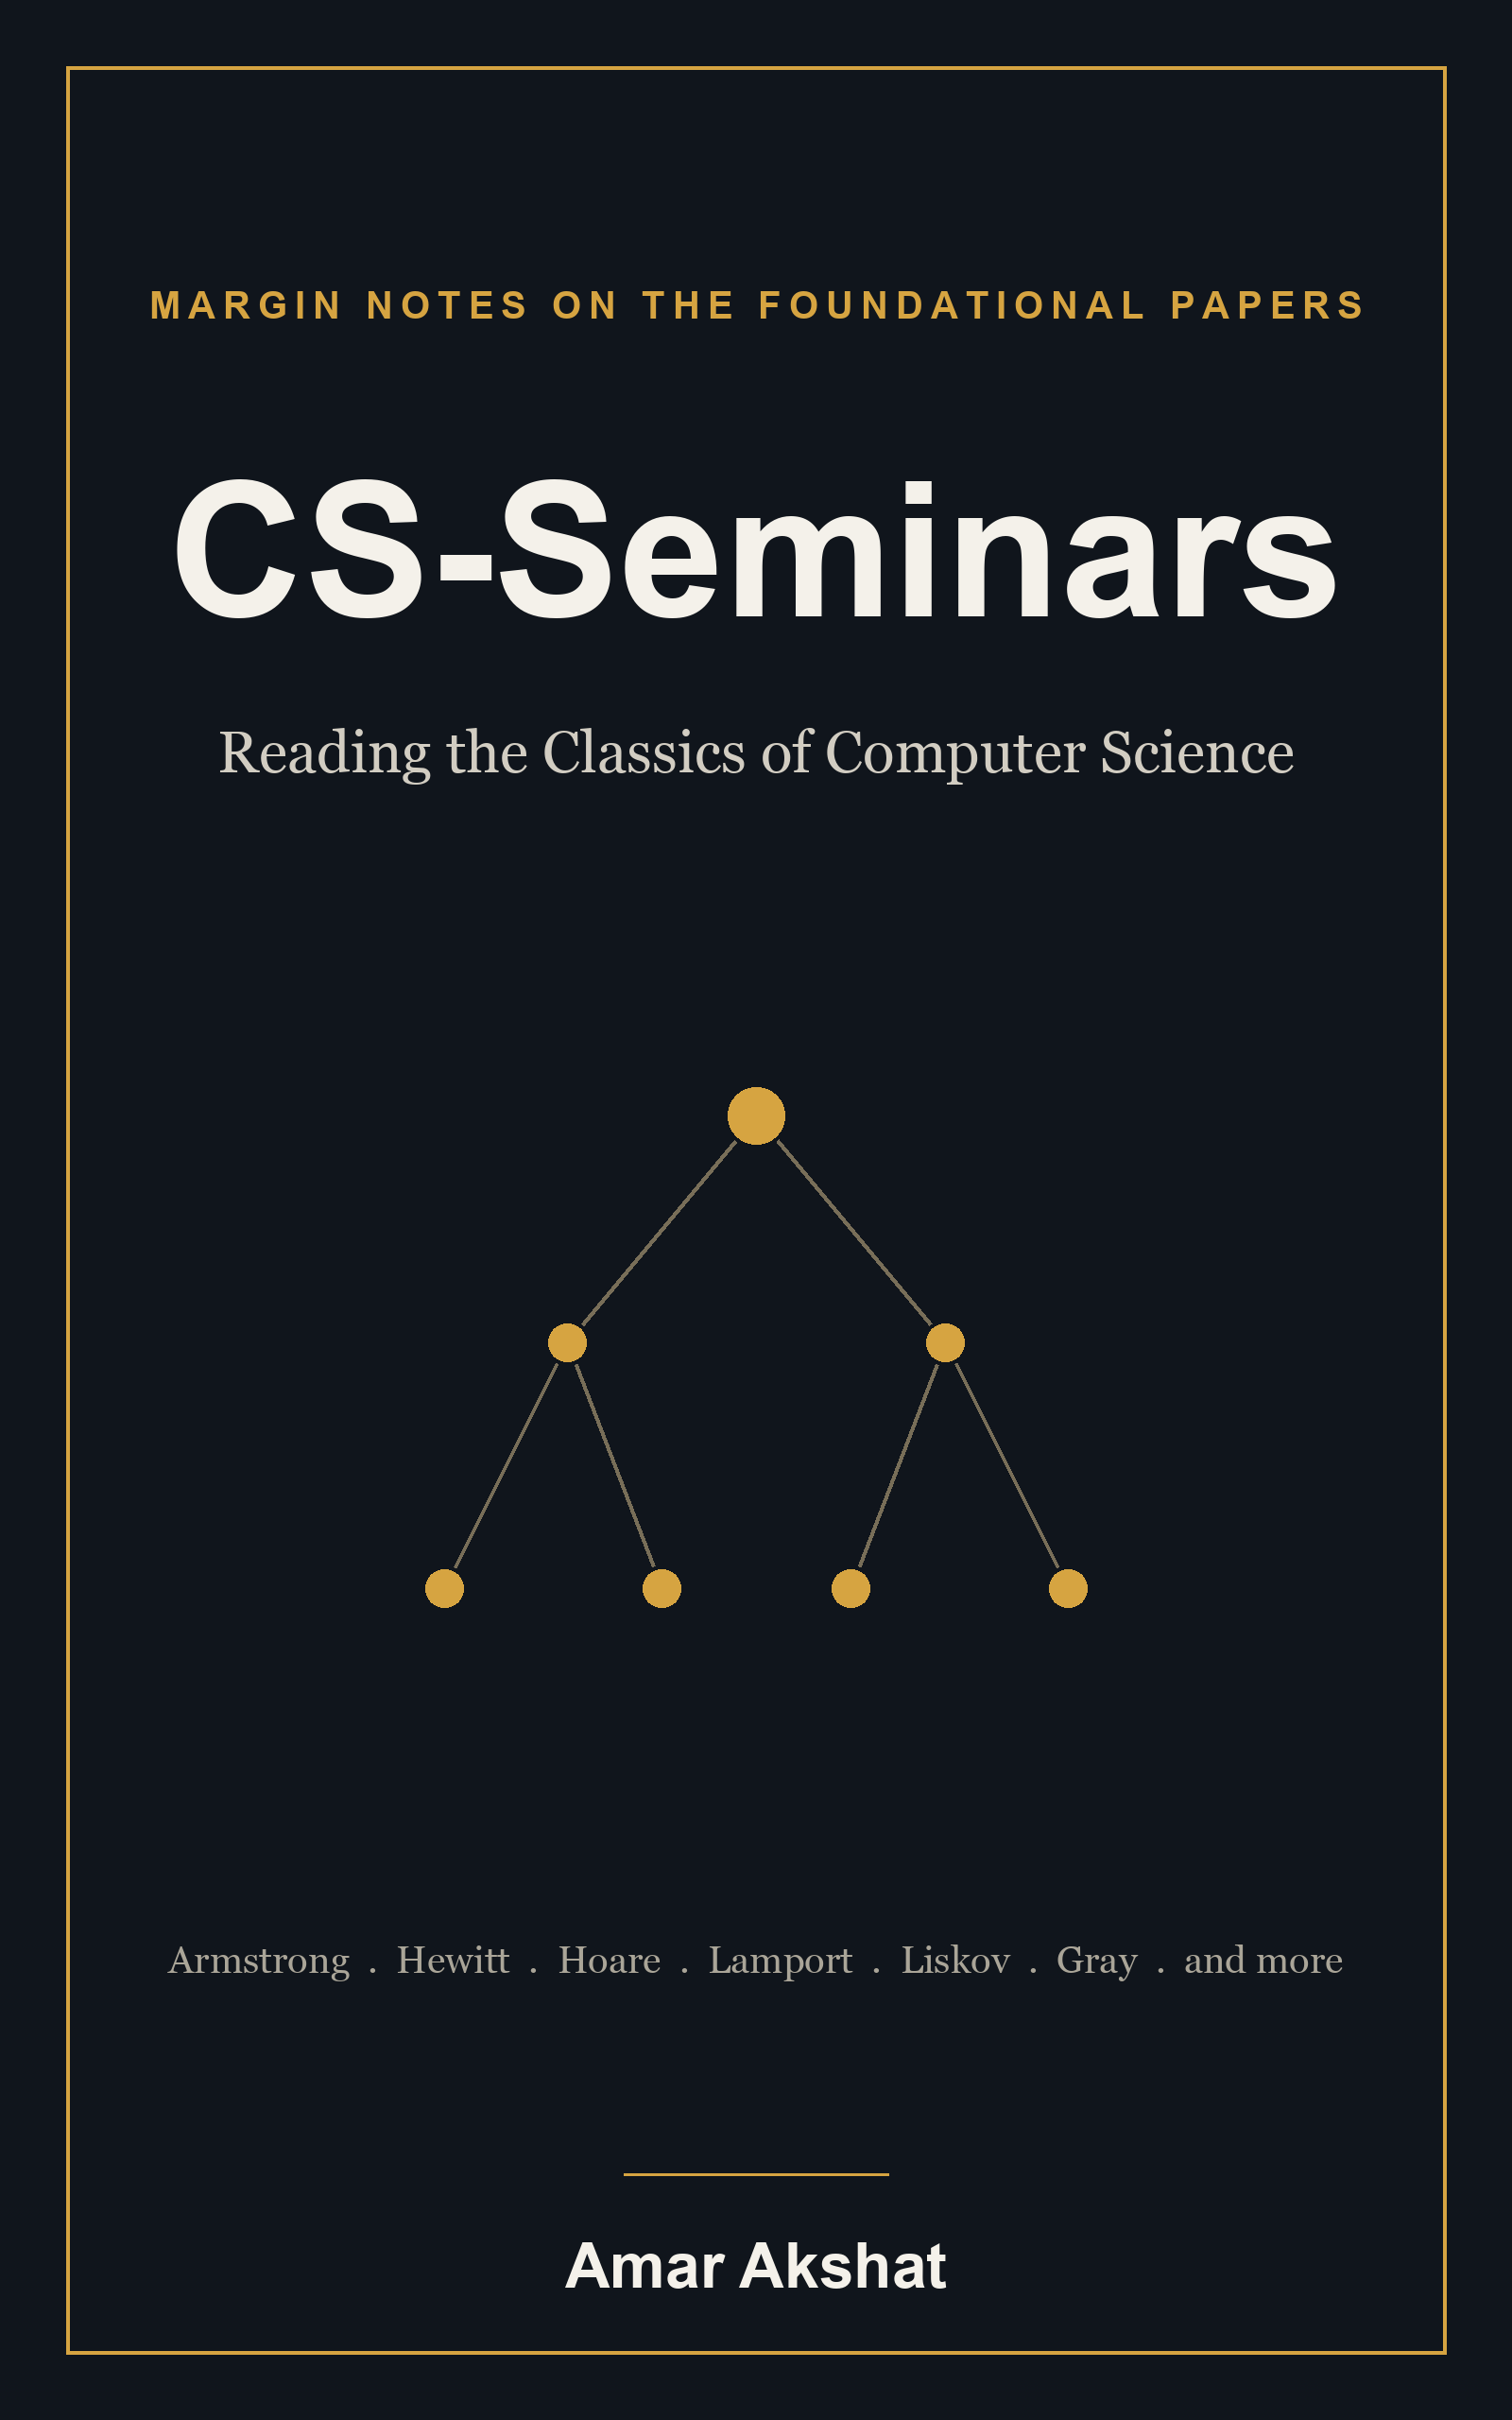
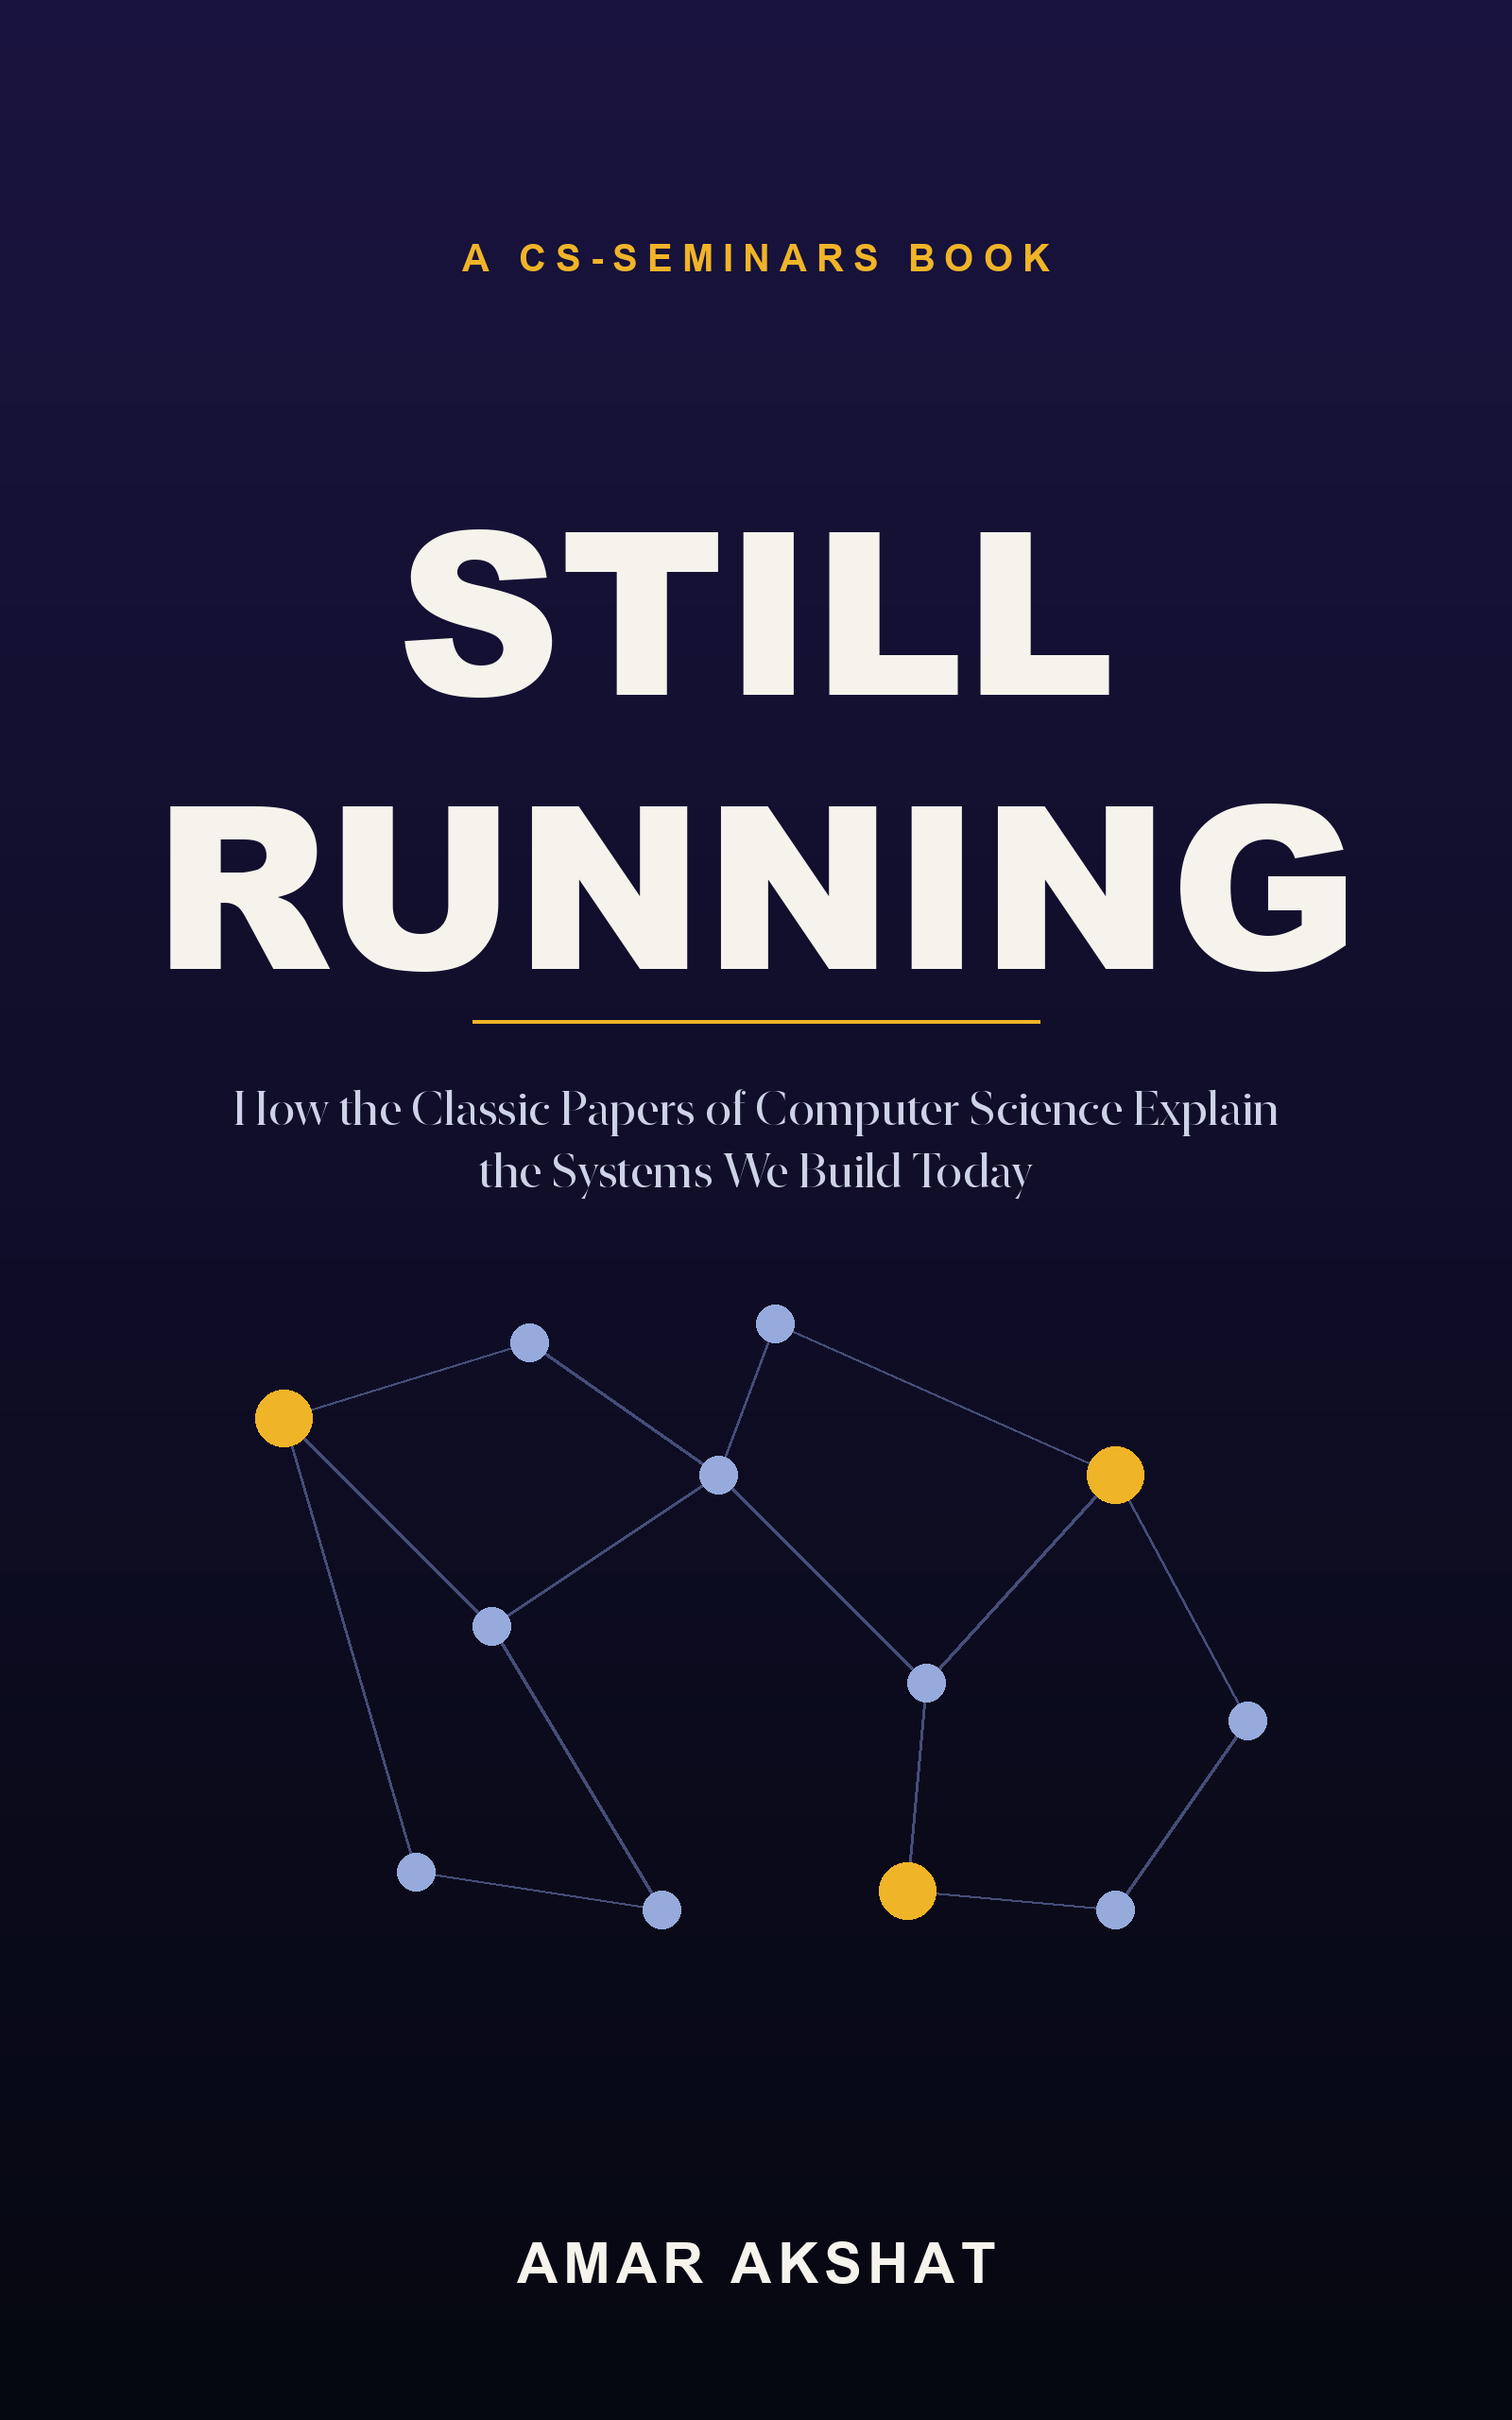
Title the book Still Running (CS-Seminars stays the project/series)
- Book title: Still Running, subtitle 'How the Classic Papers of Computer Science
  Explain the Systems We Build Today'. Updated ebook metadata, web site config,
  copyright page, and the root landing.
- New cover (Still Running over a constellation of connected ideas).
- CS-Seminars remains the repo/series/brand ('A CS-Seminars book').
EPUB still validates clean; site redeploys on push.

diff --git a/book/make_cover.py b/book/make_cover.py
@@ -1,97 +1,105 @@
 #!/usr/bin/env python3
 """Generate the Kindle cover (book/cover.png) with Pillow.
 
-KDP wants a portrait cover around 1600x2560. This draws a clean typographic
-cover: title, subtitle, a small supervision-tree motif, and the author. Edit the
-constants below to taste, then run:  python3 book/make_cover.py
+KDP wants a portrait cover around 1600x2560. This draws a bold typographic cover:
+the title "Still Running" over a small constellation of connected ideas (the
+book's through-line), with the subtitle and author. Edit the constants and run:
+python3 book/make_cover.py
 """
 import os
 
 from PIL import Image, ImageDraw, ImageFont
 
 W, H = 1600, 2560
-INK = (16, 21, 28)
-PAPER = (244, 241, 234)
-GOLD = (214, 164, 65)
-DIM = (120, 110, 88)
+OUT = os.path.join(os.path.dirname(os.path.abspath(__file__)), "cover.png")
 
-TITLE = "CS-Seminars"
-SUBTITLE = "Reading the Classics of Computer Science"
-KICKER = "MARGIN NOTES ON THE FOUNDATIONAL PAPERS"
-AUTHOR = "Amar Akshat"
+TITLE = ("STILL", "RUNNING")
+SUB = "How the Classic Papers of Computer Science Explain the Systems We Build Today"
+KICKER = "A CS-SEMINARS BOOK"
+AUTHOR = "AMAR AKSHAT"
 
-HERE = os.path.dirname(os.path.abspath(__file__))
-OUT = os.path.join(HERE, "cover.png")
+BLACK = "/System/Library/Fonts/Supplemental/Arial Black.ttf"
+BOLD = "/System/Library/Fonts/Supplemental/Arial Bold.ttf"
+SERIF = "/System/Library/Fonts/NewYork.ttf"
+REG = "/System/Library/Fonts/Supplemental/Arial.ttf"
 
-SANS = [
-    "/System/Library/Fonts/Supplemental/Arial Bold.ttf",
-    "/System/Library/Fonts/Helvetica.ttc",
-    "/Library/Fonts/Arial Bold.ttf",
-    "/System/Library/Fonts/SFNSDisplay.ttf",
-]
-SERIF = [
-    "/System/Library/Fonts/Supplemental/Georgia.ttf",
-    "/System/Library/Fonts/Supplemental/Times New Roman.ttf",
-    "/System/Library/Fonts/Supplemental/Palatino.ttc",
-]
+GOLD = (240, 180, 40)
+PAPER = (245, 243, 236)
 
 
-def font(paths, size):
-    for p in paths:
+def font(path, size):
+    for p in (path, BOLD, REG):
         if os.path.exists(p):
             try:
                 return ImageFont.truetype(p, size)
             except Exception:
-                continue
+                pass
     return ImageFont.load_default()
 
 
-def center(draw, y, text, fnt, fill, spacing=0):
-    if spacing:
-        widths = [draw.textlength(c, font=fnt) for c in text]
-        total = sum(widths) + spacing * (len(text) - 1)
-        x = (W - total) / 2
-        for c, w in zip(text, widths):
-            draw.text((x, y), c, font=fnt, fill=fill)
-            x += w + spacing
+def center(d, y, text, fnt, fill, track=0):
+    if track:
+        ws = [d.textlength(c, font=fnt) for c in text]
+        x = (W - (sum(ws) + track * (len(text) - 1))) / 2
+        for c, w in zip(text, ws):
+            d.text((x, y), c, font=fnt, fill=fill)
+            x += w + track
     else:
-        w = draw.textlength(text, font=fnt)
-        draw.text(((W - w) / 2, y), text, font=fnt, fill=fill)
+        d.text(((W - d.textlength(text, font=fnt)) / 2, y), text, font=fnt, fill=fill)
+
+
+def wrap(d, text, fnt, maxw):
+    words, lines, cur = text.split(), [], ""
+    for wd in words:
+        t = (cur + " " + wd).strip()
+        if d.textlength(t, font=fnt) <= maxw:
+            cur = t
+        else:
+            lines.append(cur)
+            cur = wd
+    if cur:
+        lines.append(cur)
+    return lines
+
+
+def gradient(top, bot):
+    img = Image.new("RGB", (W, H))
+    px = img.load()
+    for y in range(H):
+        t = y / (H - 1)
+        c = tuple(int(top[i] + (bot[i] - top[i]) * t) for i in range(3))
+        for x in range(W):
+            px[x, y] = c
+    return img
 
 
 def main():
-    img = Image.new("RGB", (W, H), INK)
+    img = gradient((26, 20, 64), (6, 8, 16))   # indigo to near-black
     d = ImageDraw.Draw(img)
 
-    # thin inset frame, manuscript feel
-    d.rectangle([70, 70, W - 70, H - 70], outline=GOLD, width=4)
+    center(d, 250, KICKER, font(BOLD, 40), GOLD, track=10)
+    center(d, 470, TITLE[0], font(BLACK, 240), PAPER)
+    center(d, 760, TITLE[1], font(BLACK, 240), PAPER)
+    d.line([(W / 2 - 300, 1080), (W / 2 + 300, 1080)], fill=GOLD, width=4)
+    for i, ln in enumerate(wrap(d, SUB, font(SERIF, 52), 1180)):
+        center(d, 1140 + i * 66, ln, font(SERIF, 52), (206, 210, 230))
 
-    center(d, 300, KICKER, font(SANS, 40), GOLD, spacing=8)
-    center(d, 470, TITLE, font(SANS, 200), PAPER)
-    center(d, 760, SUBTITLE, font(SERIF, 62), (210, 205, 194))
+    # constellation of connected ideas: the through-line
+    nodes = [
+        (300, 1500), (520, 1720), (760, 1560), (980, 1780), (1180, 1560),
+        (1320, 1820), (440, 1980), (700, 2020), (960, 2000), (1180, 2020),
+        (820, 1400), (560, 1420),
+    ]
+    edges = [(0, 1), (1, 2), (2, 3), (3, 4), (4, 5), (0, 6), (1, 7),
+             (3, 8), (5, 9), (2, 10), (10, 4), (11, 0), (11, 2), (6, 7), (8, 9)]
+    for a, b in edges:
+        d.line([nodes[a], nodes[b]], fill=(70, 78, 120), width=3)
+    for i, (x, y) in enumerate(nodes):
+        r = 30 if i % 4 == 0 else 20
+        col = GOLD if i % 4 == 0 else (150, 170, 220)
+        d.ellipse([x - r, y - r, x + r, y + r], fill=col)
 
-    # supervision-tree motif: root, two supervisors, four workers
-    nodes = {
-        "r": (800, 1180),
-        "a": (600, 1420), "b": (1000, 1420),
-        "w1": (470, 1680), "w2": (700, 1680),
-        "w3": (900, 1680), "w4": (1130, 1680),
-    }
-    edges = [("r", "a"), ("r", "b"), ("a", "w1"), ("a", "w2"),
-             ("b", "w3"), ("b", "w4")]
-    for u, v in edges:
-        d.line([nodes[u], nodes[v]], fill=DIM, width=4)
-    for key, (x, y) in nodes.items():
-        rad = 34 if key == "r" else 24
-        d.ellipse([x - rad, y - rad, x + rad, y + rad], fill=GOLD, outline=INK, width=4)
-
-    # authors band: the through-line, shown small
-    band = "Armstrong  .  Hewitt  .  Hoare  .  Lamport  .  Liskov  .  Gray  .  and more"
-    center(d, 2050, band, font(SERIF, 40), (170, 165, 152))
-
-    d.line([(W / 2 - 140, 2300), (W / 2 + 140, 2300)], fill=GOLD, width=3)
-    center(d, 2360, AUTHOR, font(SANS, 66), PAPER)
-
+    center(d, 2360, AUTHOR, font(BOLD, 60), PAPER, track=6)
     img.save(OUT, "PNG")
     print("wrote %s (%dx%d)" % (OUT, W, H))
 

diff --git a/README.md b/README.md
@@ -1,6 +1,8 @@
-# CS-Seminars
+# Still Running
 
-**Modern graduate seminars on the classic papers of computer science.**
+**How the classic papers of computer science explain the systems we build today.**
+
+Modern graduate seminars on the foundational works of computer science, reconstructed for the systems we actually build. A CS-Seminars project.
 
 Some of the ideas that hold up your stack were written down decades ago. Logical clocks, the relational model, supervision trees, the end-to-end argument: the systems you ship this week are still arguments these papers started. But the papers themselves are hard to walk into. They assume you lived through the problem they were solving, and they were written for readers who already had.
 
@@ -41,7 +43,7 @@ Read these works together and they stop being about Erlang, or TCP, or Paxos. Th
 - Where should trust live?
 - How do you keep complexity survivable?
 
-CS-Seminars reads the classics as answers to those questions, then checks the answers against the systems we build now.
+*Still Running* reads the classics as answers to those questions, then checks the answers against the systems we build now.
 
 ## Seminars
 

diff --git a/book/frontmatter/00-copyright.md b/book/frontmatter/00-copyright.md
@@ -1,8 +1,8 @@
 # Copyright
 
-**CS-Seminars: Reading the Classics of Computer Science**
+**Still Running: How the Classic Papers of Computer Science Explain the Systems We Build Today**
 
-Copyright (c) 2026 Amar Akshat.
+A CS-Seminars project. Copyright (c) 2026 Amar Akshat.
 
 The original commentary, explanations, diagrams, and structure of this book are released under the Creative Commons Attribution 4.0 International License (CC BY 4.0). You are free to share and adapt the material for any purpose, including commercially, as long as you give appropriate credit.
 